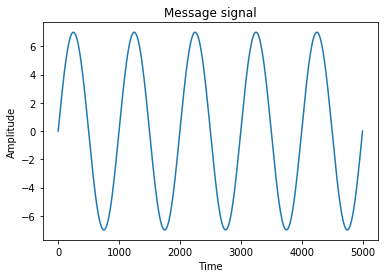
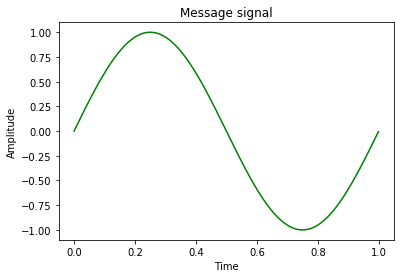
Add files via upload

diff --git a/FM.py b/FM.py
@@ -1,0 +1,37 @@
+# -*- coding: utf-8 -*-
+"""
+Frequency modulation
+"""
+
+from numpy import sin,cos,pi,linspace,arange,log10
+#from scipy.signal import freqs
+from scipy.fftpack import fft,fftshift
+import matplotlib.pylab as plt
+
+
+fc=25
+fm=1
+t=arange(0,1,0.001)
+mt=sin(2*pi*fm*t)
+
+m=10
+y=sin(2*pi*fc*t+(m*sin(2*pi*fm*t)))
+
+plt.plot(t,mt,'g')
+plt.xlabel('Time')
+plt.ylabel('Amplitude')
+plt.title('Message signal')
+plt.show()
+
+a=fft(y)
+#plt.plot(t,ct,'b')
+#plt.xlabel('Time')
+#plt.ylabel('Amplitude')
+#plt.title('Carrier signal')
+#plt.show()
+
+plt.plot(t,y,'r')
+plt.xlabel('Time')
+plt.ylabel('Amplitude')
+plt.title('FM signal')
+plt.show()
